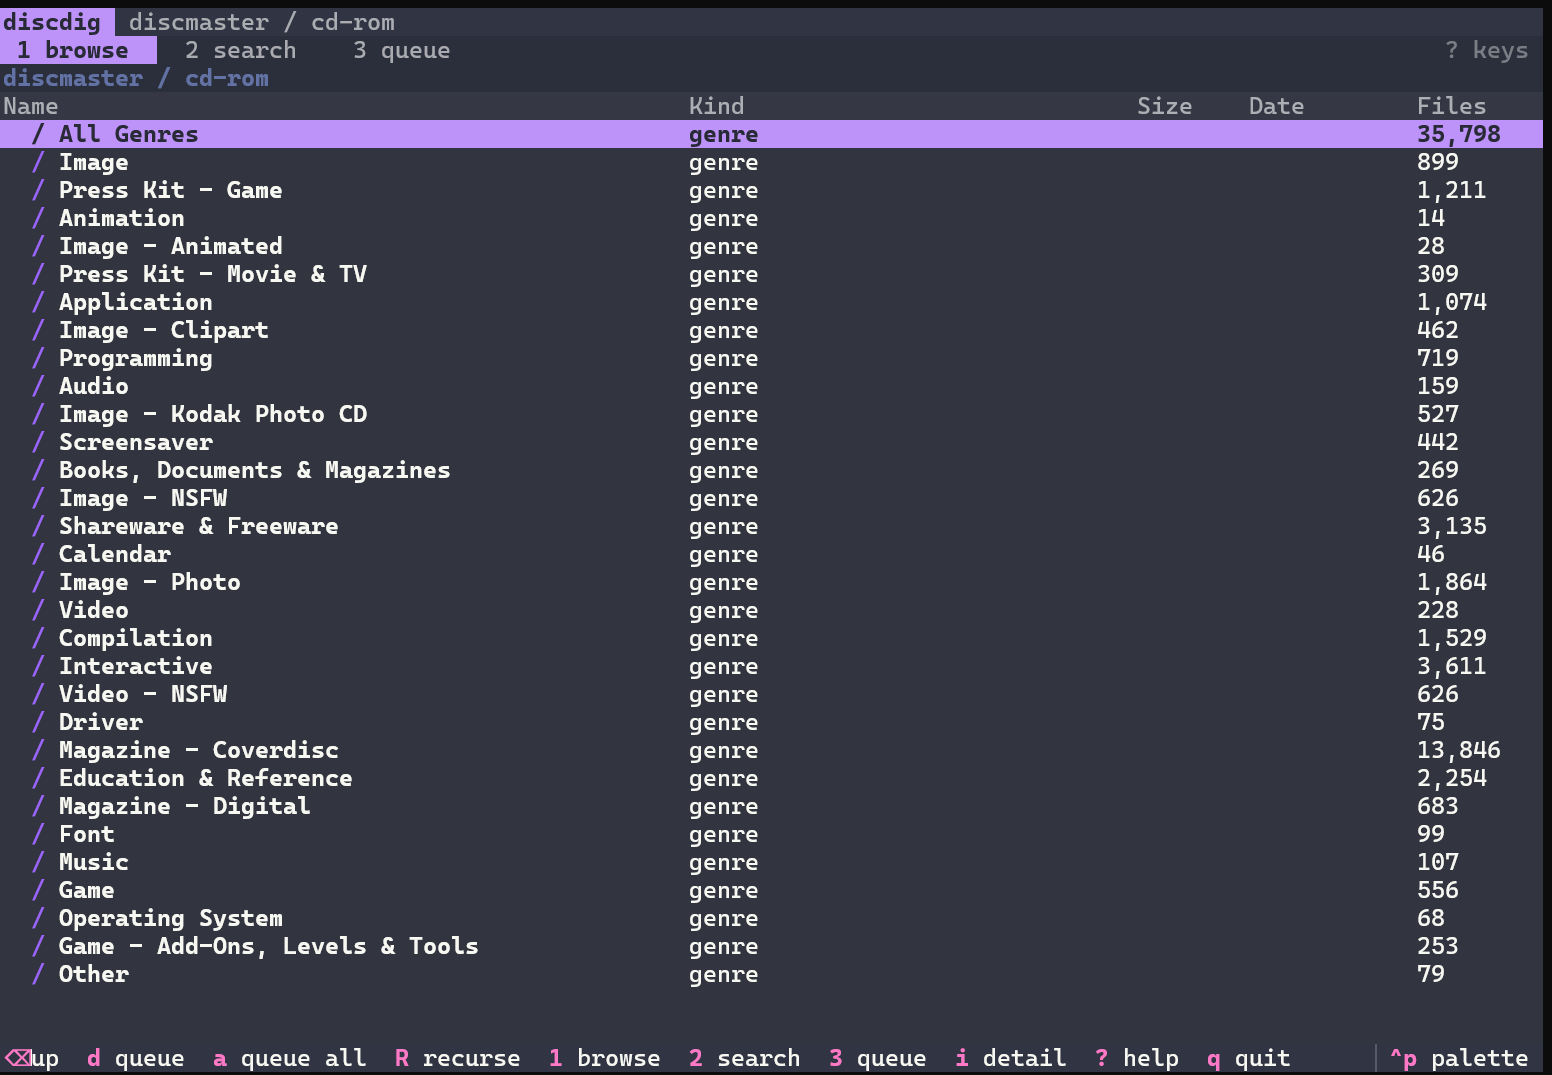
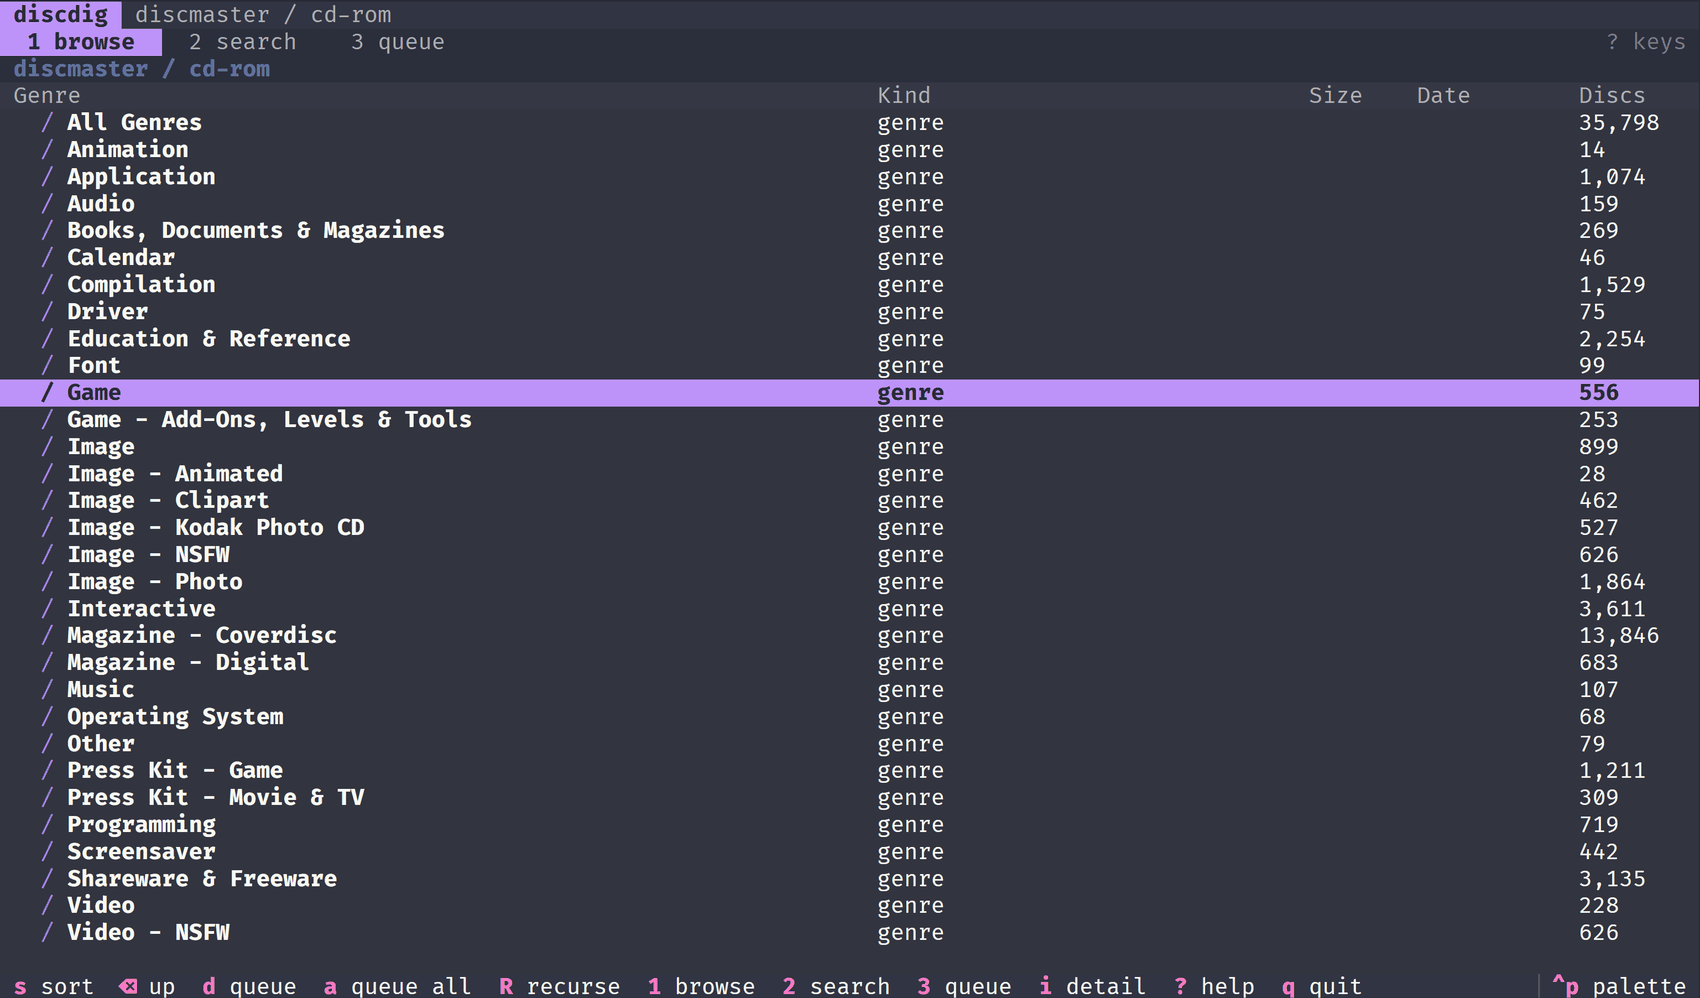
Retake the browse screenshot
The old one predated the genre-ordering fix: it showed genres in the order
the site's three-across grid happens to serialise into, under a "Files"
header where the app now says "Discs". It contradicted the paragraph
directly above it in the README.

Rendered from the app itself on the default Dracula theme, via Rich's SVG
export with a template that drops the fake window chrome -- Textual's stock
export wraps the terminal in a titlebar and traffic lights, which would not
have matched the other two shots, both raw terminal captures.

Changed region(s): [[0.0, 0.0, 1.0, 1.0]]

diff --git a/README.md b/README.md
@@ -48,7 +48,7 @@ looking.
     </td>
     <td width="33%" align="center">
       <a href="assets/screen1.png">
-        <img src="assets/screen1.png" alt="The browse pane listing CD-ROM genres with a disc count against each">
+        <img src="assets/screen1.png" alt="The browse pane on the Dracula theme, listing CD-ROM genres alphabetically with a disc count against each">
       </a>
     </td>
     <td width="33%" align="center">
